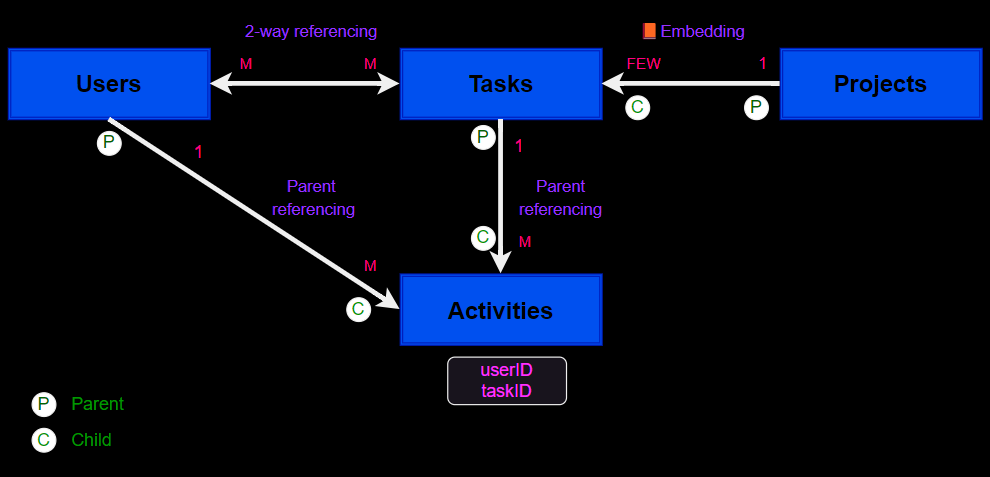
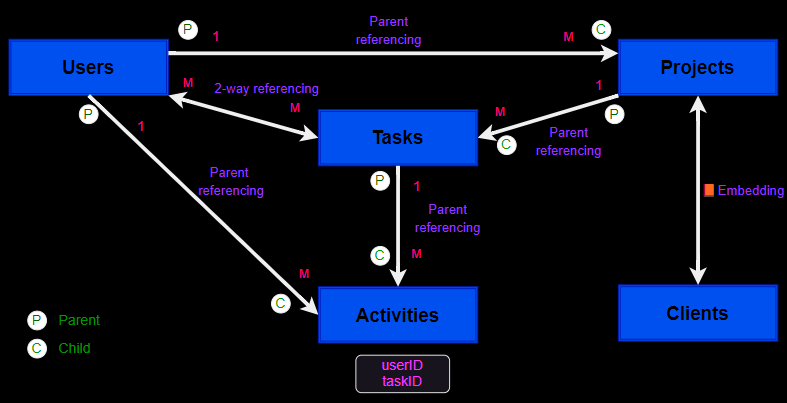
Create intial demo of Project model

Changed region(s): [[0.0, 0.0298, 1.0, 0.9826], [0.1525, 0.2978, 0.3964, 0.5955], [0.0305, 0.7742, 0.122, 0.9529]]

diff --git a/models/projectModel.js b/models/projectModel.js
@@ -1,0 +1,44 @@
+const mongoose = require('mongoose');
+const validator = require('validator');
+
+const projectSchema = new mongoose.Schema({
+  name: {
+    type: String,
+    unique: true,
+  },
+  ownweID: {
+    type: mongoose.Types.ObjectId,
+    ref: 'User',
+  },
+  clients: {
+    type: [String],
+    validate: {
+      validator: function (val) {
+        return val.every((el) => validator.isEmail(el));
+      },
+      message: 'Invalid clients emails',
+    },
+  },
+  description: {
+    type: String,
+  },
+  startDate: {
+    type: Date,
+  },
+  endDate: {
+    type: Date,
+    validate: {
+      validator: function (end_date) {
+        return end_date > this.startDate;
+      },
+      message: 'Invalid start and end dates',
+    },
+  },
+  status: {
+    type: String,
+  },
+});
+
+const Project = mongoose.model('Project', projectSchema);
+
+module.exports = Project;

diff --git a/server.js b/server.js
@@ -2,23 +2,12 @@ const mongoose = require('mongoose');
 const dotenv = require('dotenv');
 
 dotenv.config({ path: './config.env' });
+
 const app = require('./app');
 
-const clientOptions = {
-  serverApi: { version: '1', strict: true, deprecationErrors: true },
-};
-async function run() {
-  try {
-    await mongoose.connect(process.env.URI, clientOptions);
-    await mongoose.connection.db.admin().command({ ping: 1 });
-    console.log(
-      'Pinged your deployment. You successfully connected to MongoDB!',
-    );
-  } finally {
-    await mongoose.disconnect();
-  }
-}
-run().catch(console.dir);
+mongoose.connect(process.env.URI).then((conn) => {
+  console.log('Connected Successfully To DB ✅');
+});
 
 const port = process.env.PORT;
 const server = app.listen(port, () => {
